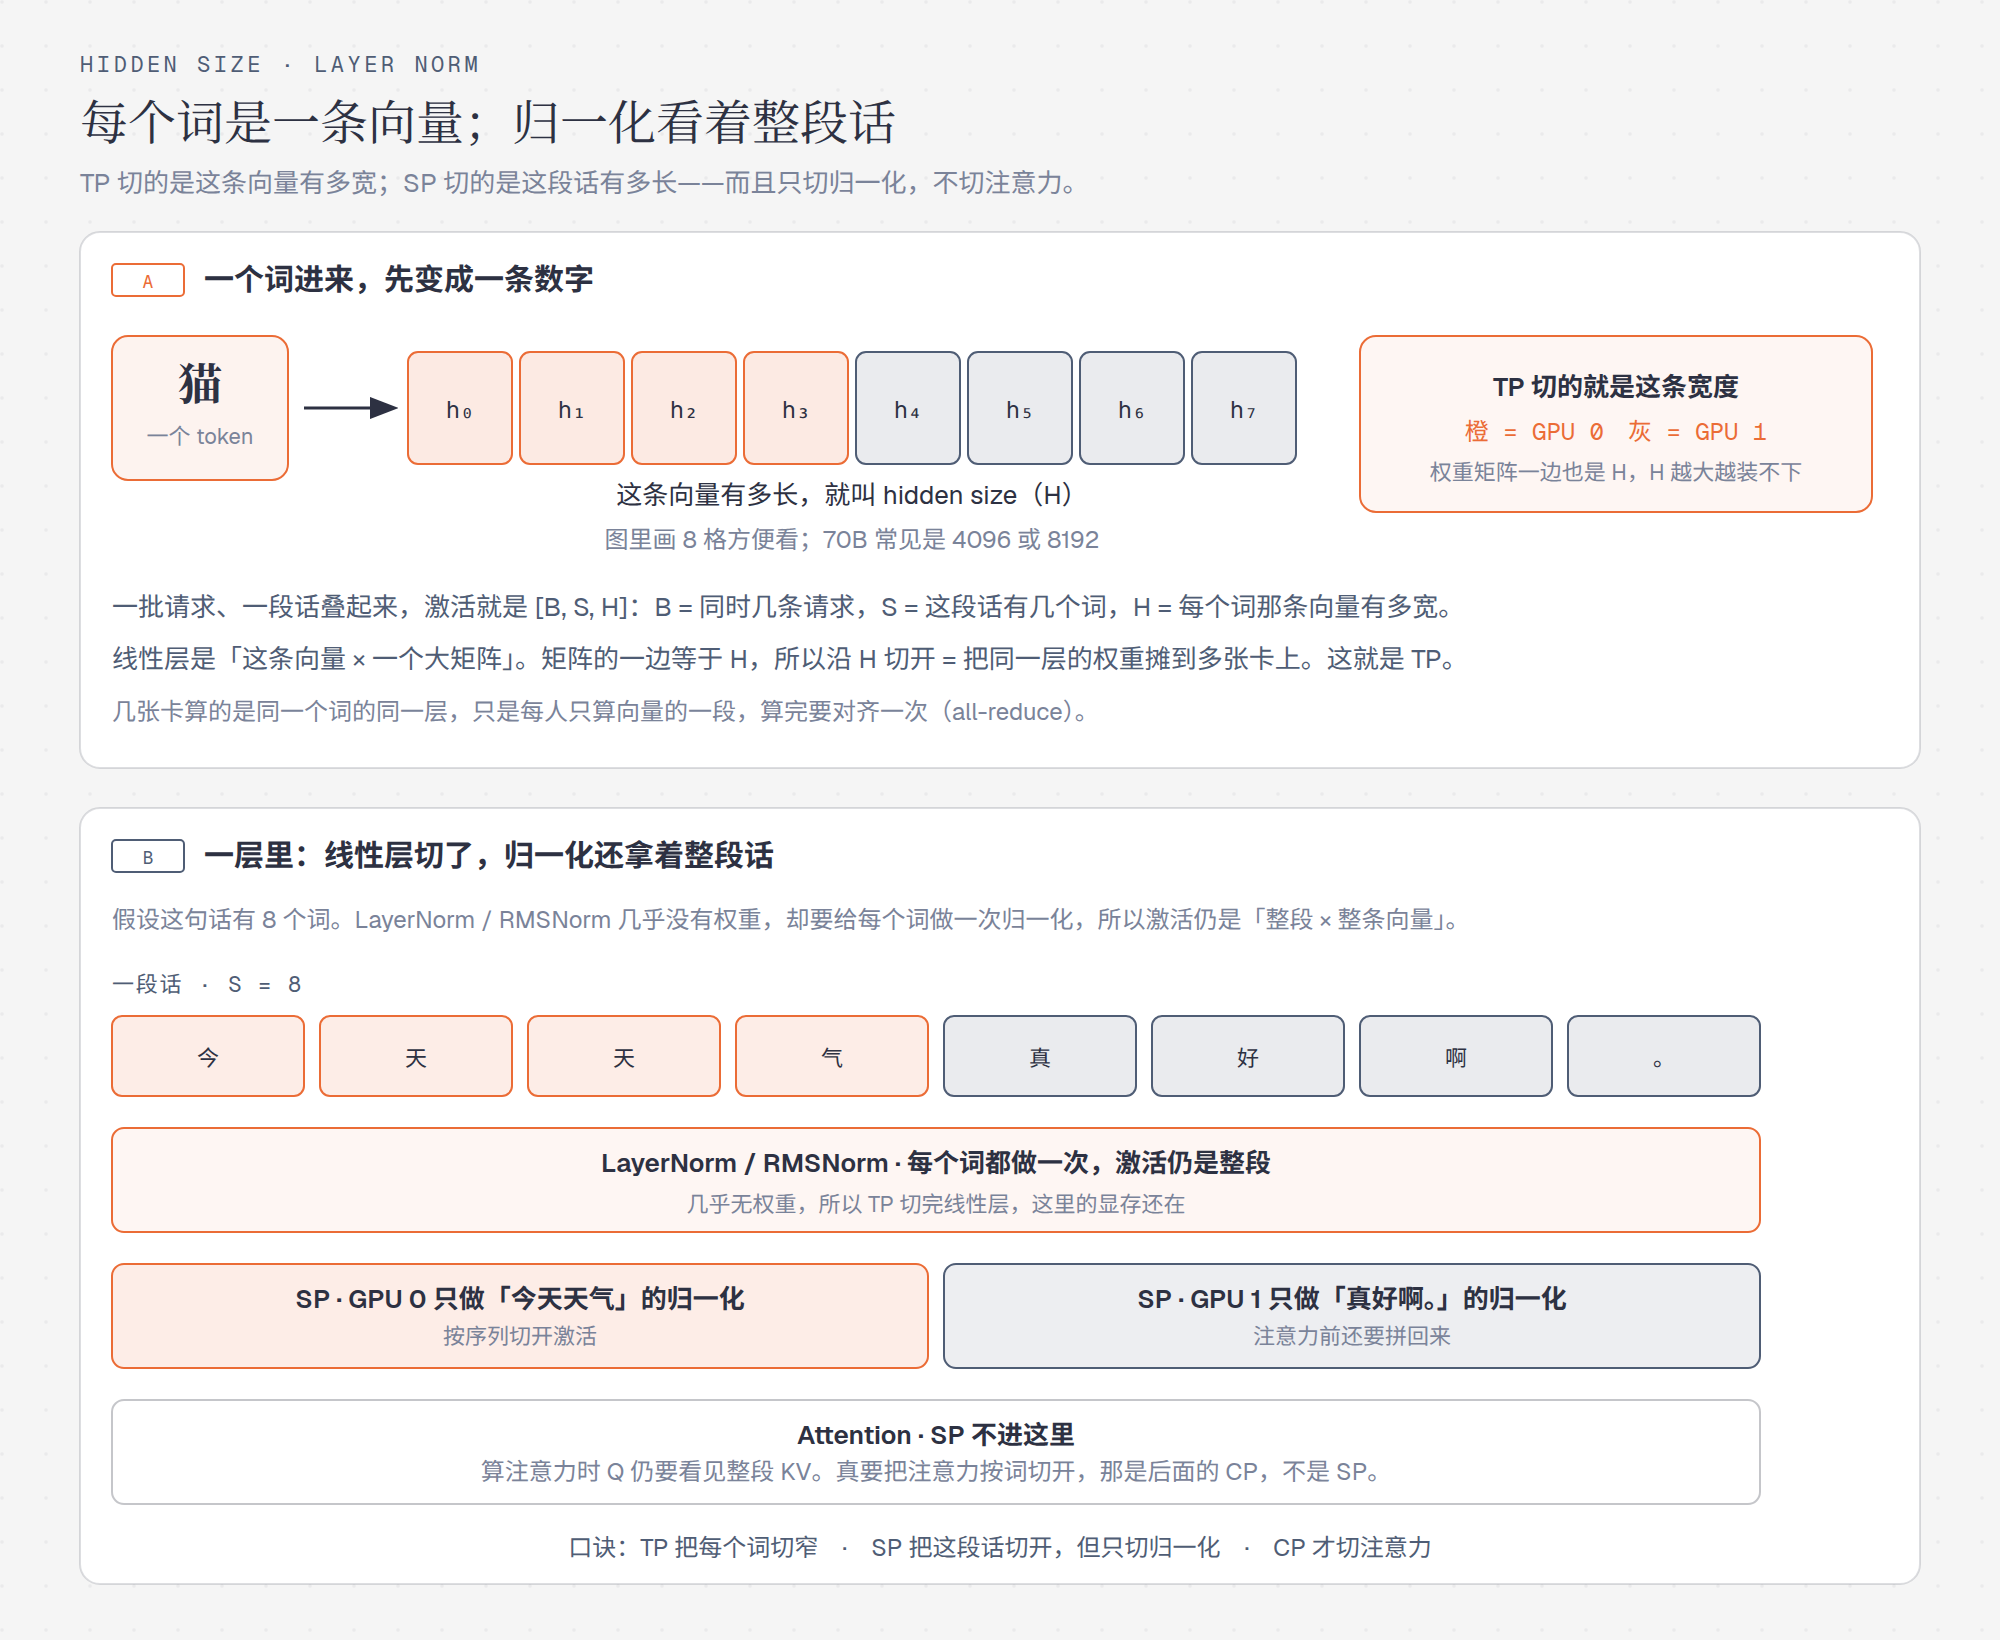
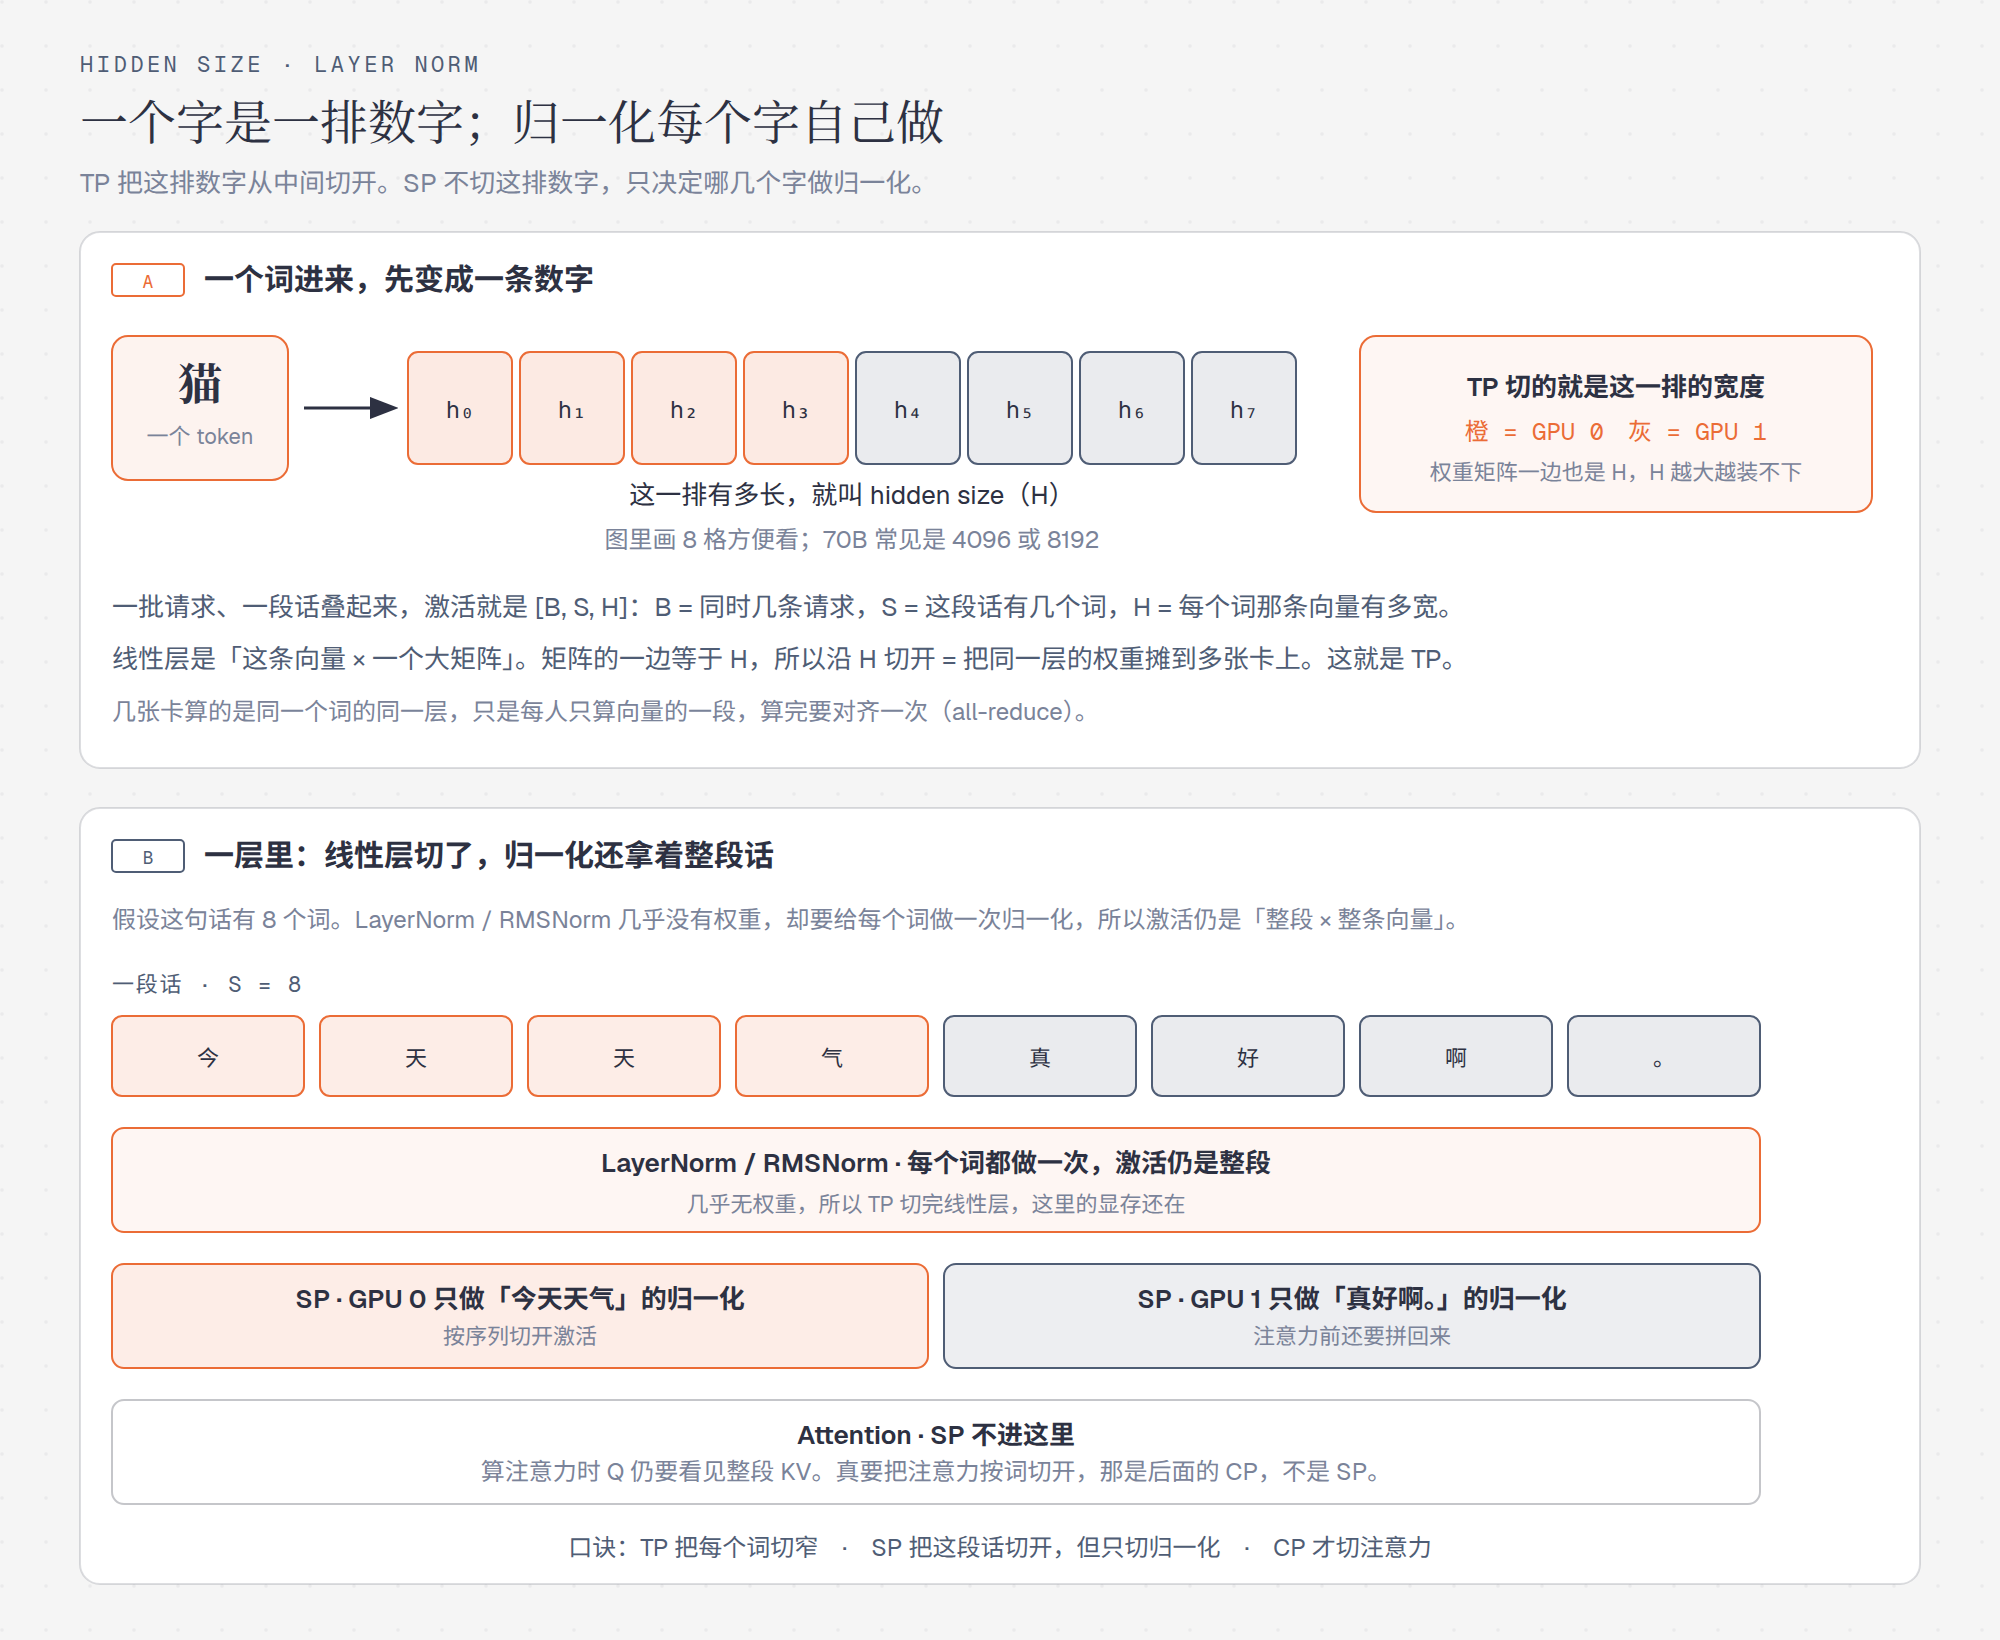
第6篇: 用「一排数字」把 TP 和 SP 讲浅
TP 是同一个字切成左右两半、两张卡各算半截再加回去。SP 不把字切窄，只决定哪几个字在哪张卡上做归一化；进注意力前还要拼回整句。

diff --git a/diagrams/parallelism-moe/diagram-hidden-layernorm.html b/diagrams/parallelism-moe/diagram-hidden-layernorm.html
@@ -21,8 +21,8 @@
       <rect width="100%" height="100%" fill="url(#dots)" opacity="0.55"/>
 
       <text x="40" y="36" fill="#4f5d75" font-size="11" font-family="'Geist Mono','Noto Sans CJK SC',monospace" letter-spacing="0.16em">HIDDEN SIZE · LAYER NORM</text>
-      <text x="40" y="70" fill="#2d3142" font-size="24" font-family="'Instrument Serif','Noto Serif CJK SC',serif">每个词是一条向量；归一化看着整段话</text>
-      <text x="40" y="96" fill="#7a8399" font-size="13" font-family="'Geist','Noto Sans CJK SC',sans-serif">TP 切的是这条向量有多宽；SP 切的是这段话有多长——而且只切归一化，不切注意力。</text>
+      <text x="40" y="70" fill="#2d3142" font-size="24" font-family="'Instrument Serif','Noto Serif CJK SC',serif">一个字是一排数字；归一化每个字自己做</text>
+      <text x="40" y="96" fill="#7a8399" font-size="13" font-family="'Geist','Noto Sans CJK SC',sans-serif">TP 把这排数字从中间切开。SP 不切这排数字，只决定哪几个字做归一化。</text>
 
       <!-- ===== panel A: one token ===== -->
       <rect x="40" y="116" width="920" height="268" rx="10" fill="#ffffff" stroke="rgba(45,49,66,0.16)"/>
@@ -46,11 +46,11 @@
         <rect x="540" y="176" width="52" height="56" rx="5" fill="rgba(79,93,117,0.12)" stroke="#4f5d75"/><text x="566" y="209" fill="#2d3142" font-size="12">h₆</text>
         <rect x="596" y="176" width="52" height="56" rx="5" fill="rgba(79,93,117,0.12)" stroke="#4f5d75"/><text x="622" y="209" fill="#2d3142" font-size="12">h₇</text>
       </g>
-      <text x="426" y="252" fill="#2d3142" font-size="13" font-family="'Geist','Noto Sans CJK SC',sans-serif" text-anchor="middle">这条向量有多长，就叫 hidden size（H）</text>
+      <text x="426" y="252" fill="#2d3142" font-size="13" font-family="'Geist','Noto Sans CJK SC',sans-serif" text-anchor="middle">这一排有多长，就叫 hidden size（H）</text>
       <text x="426" y="274" fill="#7a8399" font-size="12" font-family="'Geist','Noto Sans CJK SC',sans-serif" text-anchor="middle">图里画 8 格方便看；70B 常见是 4096 或 8192</text>
 
       <rect x="680" y="168" width="256" height="88" rx="8" fill="rgba(235,108,54,0.06)" stroke="#eb6c36"/>
-      <text x="808" y="198" fill="#2d3142" font-size="13" font-weight="600" font-family="'Geist','Noto Sans CJK SC',sans-serif" text-anchor="middle">TP 切的就是这条宽度</text>
+      <text x="808" y="198" fill="#2d3142" font-size="13" font-weight="600" font-family="'Geist','Noto Sans CJK SC',sans-serif" text-anchor="middle">TP 切的就是这一排的宽度</text>
       <text x="808" y="220" fill="#eb6c36" font-size="12" font-family="'Geist Mono','Noto Sans CJK SC',monospace" text-anchor="middle">橙 = GPU 0　灰 = GPU 1</text>
       <text x="808" y="240" fill="#7a8399" font-size="11" font-family="'Geist','Noto Sans CJK SC',sans-serif" text-anchor="middle">权重矩阵一边也是 H，H 越大越装不下</text>
 

diff --git a/diagrams/parallelism-moe/diagram-sp-flow.html b/diagrams/parallelism-moe/diagram-sp-flow.html
@@ -113,7 +113,7 @@
       <rect x="348" y="832" width="280" height="24" rx="4" fill="rgba(79,93,117,0.10)" stroke="#4f5d75"/>
       <text x="488" y="849" fill="#2d3142" font-size="12" font-family="'Geist','Noto Sans CJK SC',sans-serif" text-anchor="middle">GPU 1 又只留 真　好</text>
 
-      <text x="500" y="886" fill="#4f5d75" font-size="12" font-family="'Geist','Noto Sans CJK SC',sans-serif" text-anchor="middle">省的是归一化时那堆向量的显存，不是权重，也不是 KV</text>
+      <text x="500" y="886" fill="#4f5d75" font-size="12" font-family="'Geist','Noto Sans CJK SC',sans-serif" text-anchor="middle">省的是归一化时那堆数字占的显存，不是权重，也不是已经生成的 KV</text>
     </svg>
   </div>
 </body>
